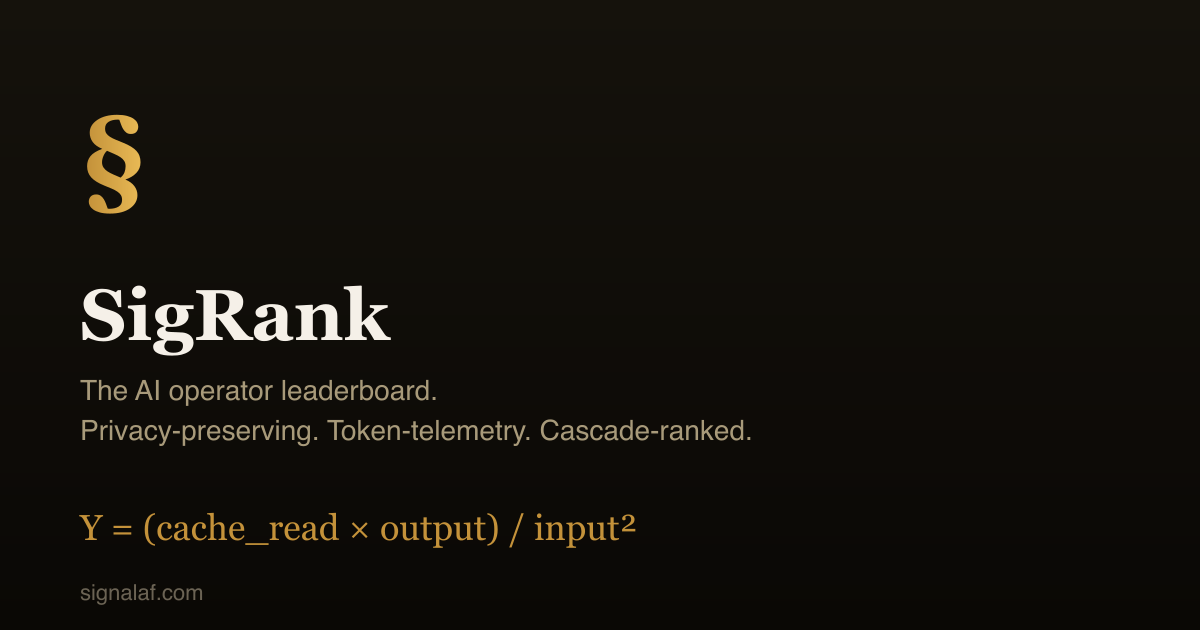
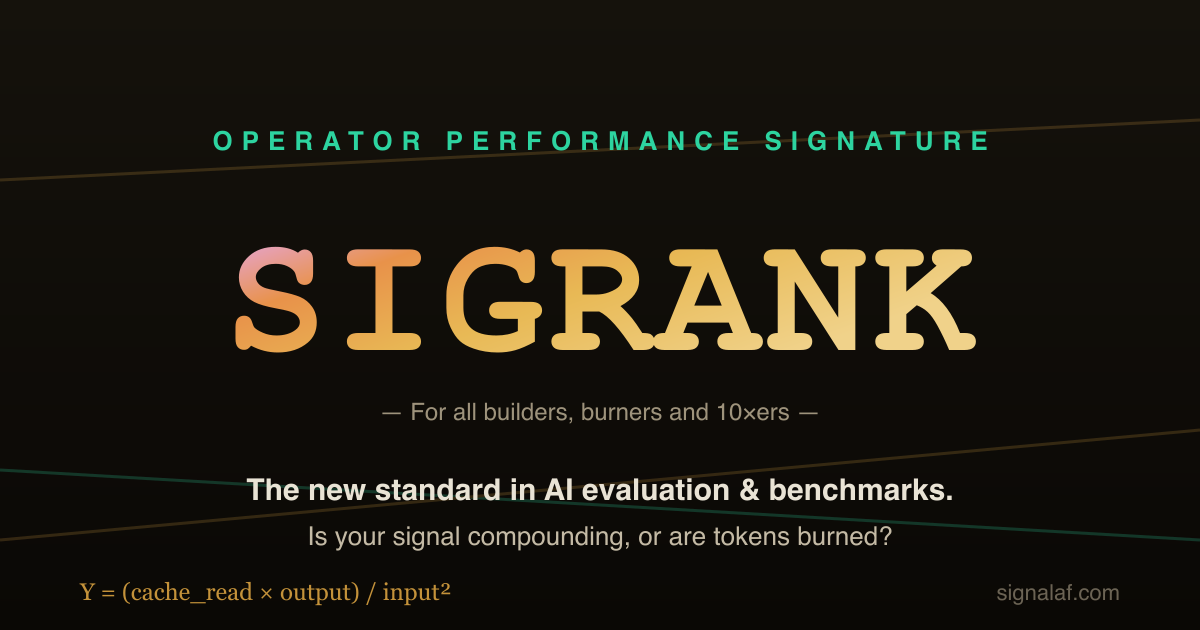
feat(seo): OG preview = landing hero + punchier description
Recreated og.svg/og.png (1200x630) to match the landing hero instead of the quiet
serif brand card: green OPERATOR PERFORMANCE SIGNATURE eyebrow, SIGRANK wordmark in
the gold→pink gradient, 'For all builders, burners and 10×ers', the Υ formula, +
cascade streaks. Punched up SITE_TAGLINE (the og/twitter description) to the hero's
voice: 'The new standard in AI evaluation & benchmarks… is signal compounding, or
are tokens burned? Volume is noise; yield is signal.'

tsc 0, canonical 11/11.

diff --git a/lib/seo.ts b/lib/seo.ts
@@ -17,7 +17,7 @@ import type { Metadata } from 'next'
 export const SITE_ORIGIN = 'https://signalaf.com'
 export const SITE_NAME = 'SigRank'
 export const SITE_TAGLINE =
-  'Privacy-preserving leaderboard scoring AI operators on canonical token-telemetry metrics.'
+  'The new standard in AI evaluation & benchmarks. SigRank measures the architecture of your token cascade — is signal compounding, or are tokens burned? Volume is noise; yield is signal. Privacy-preserving, token-telemetry, cascade-ranked.'
 
 /** Static OG image (1200×630 brand card). MUST be a raster PNG/JPG — X, LinkedIn,
  *  Facebook, iMessage, Slack, and Discord all reject SVG for link-preview cards, so
